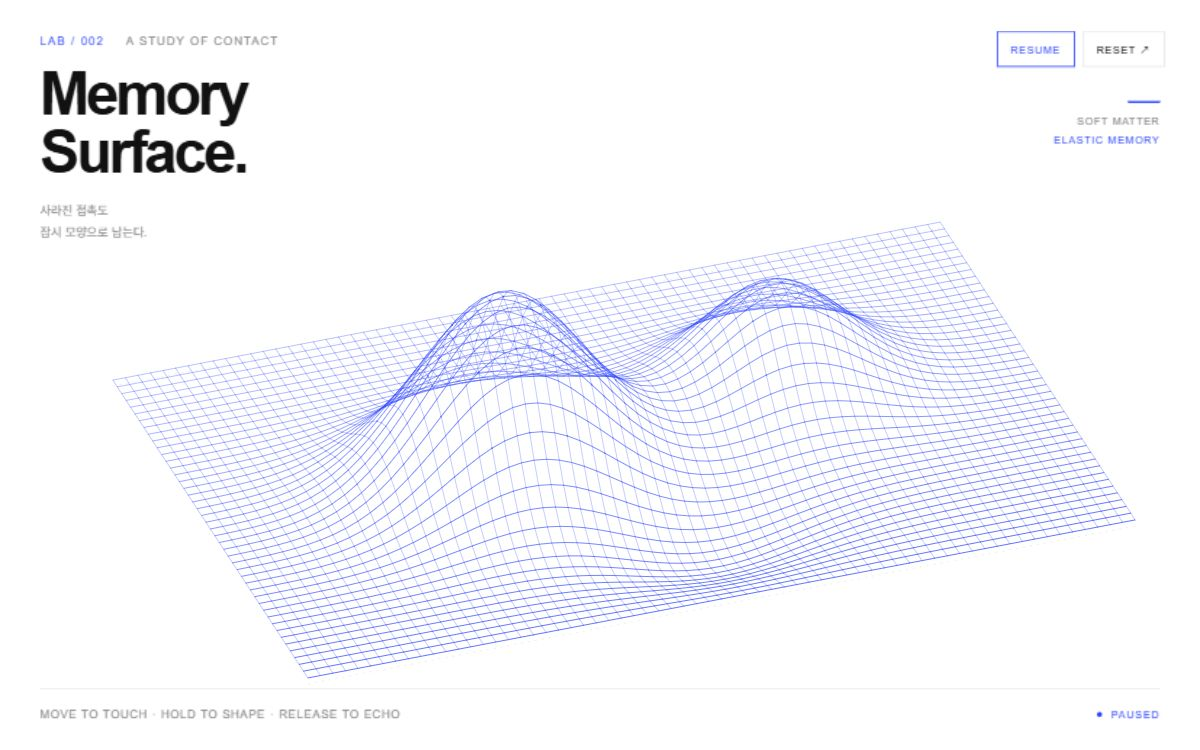
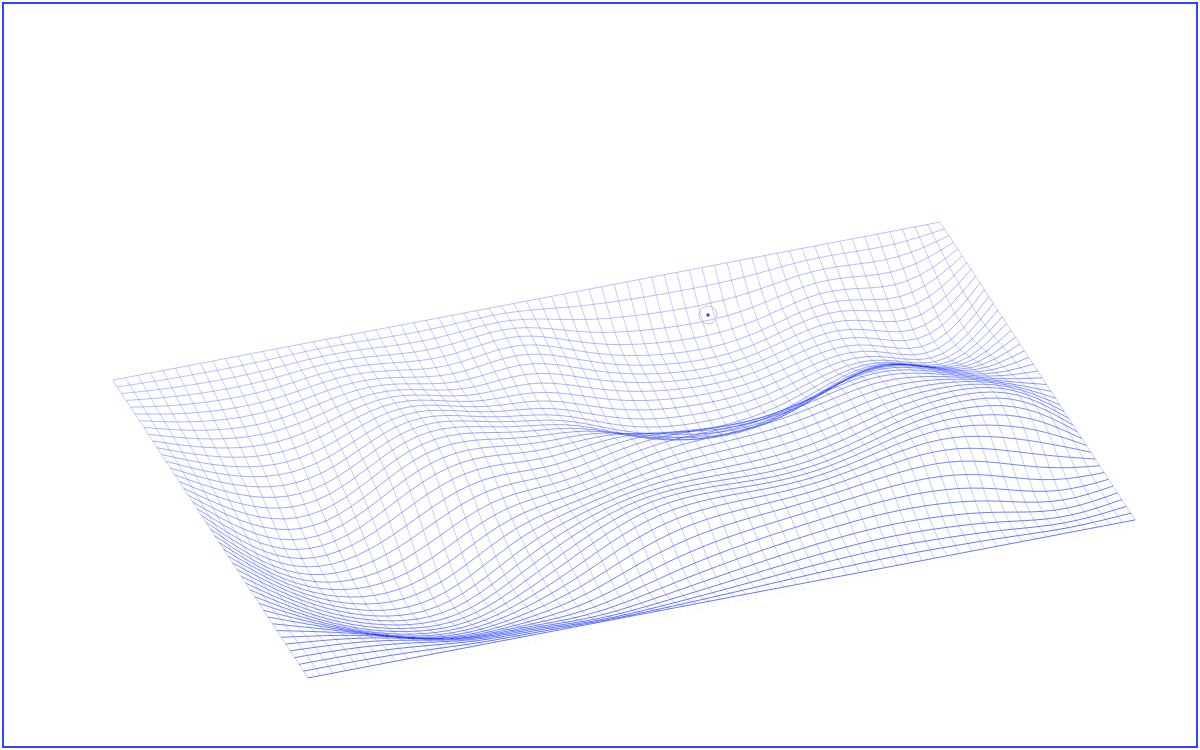
memory-suface 포스터 경량화

diff --git a/lab/sketches/memory-surface.html b/lab/sketches/memory-surface.html
@@ -12,7 +12,7 @@
   *{box-sizing:border-box}html,body{margin:0;width:100%;height:100%;overflow:hidden}button{font:inherit;color:inherit;cursor:pointer}button:focus-visible,canvas:focus-visible{outline:2px solid #2D45FF;outline-offset:-4px}
   canvas{display:block;width:100%;height:100%;touch-action:none;cursor:crosshair}
   .title{position:fixed;top:35px;left:40px;pointer-events:none;user-select:none}.eyebrow{margin:0 0 19px;font-size:11px;letter-spacing:1.8px;color:#8A8A8A}.eyebrow b{font-weight:400;color:#2D45FF;margin-right:17px}h1{margin:0;font-size:clamp(34px,5vw,70px);letter-spacing:-.065em;line-height:.96;font-weight:600}.title p:last-child{margin:20px 0 0;font-size:12px;letter-spacing:-.2px;color:#8A8A8A;line-height:1.7}
-  .controls{position:fixed;right:35px;top:31px;display:flex;gap:8px}.controls button{border:1px solid #e8e8e6;border-radius:0;background:#ffffffed;min-width:74px;min-height:36px;padding:9px 13px;font-size:10px;letter-spacing:1.2px}.controls button:hover{color:#2D45FF;border-color:#2D45FF}.controls button:disabled{color:#8A8A8A;cursor:default}.controls button[aria-pressed="true"]{border-color:#2D45FF;color:#2D45FF}
+  .controls{position:fixed;right:24px;top:20px;display:flex;gap:8px}.controls button{border:1px solid #e8e8e6;border-radius:0;background:#ffffffed;min-width:74px;min-height:36px;padding:9px 13px;font-size:10px;letter-spacing:1.2px}.controls button:hover{color:#2D45FF;border-color:#2D45FF}.controls button:disabled{color:#8A8A8A;cursor:default}.controls button[aria-pressed="true"]{border-color:#2D45FF;color:#2D45FF}
   .legend{position:fixed;right:40px;top:101px;text-align:right;pointer-events:none;font-size:10px;letter-spacing:1.2px;line-height:1.8;color:#8A8A8A}.legend span{display:block;color:#2D45FF}.legend:before{content:"";display:block;width:32px;height:2px;background:#2D45FF;margin:0 0 10px auto}
   .footer{position:fixed;left:40px;right:40px;bottom:26px;border-top:1px solid #e9e9e7;padding-top:16px;display:flex;justify-content:space-between;align-items:center;pointer-events:none;gap:15px}.hint{margin:0;font-size:11px;letter-spacing:1.2px;color:#8A8A8A;line-height:1.7}.state{font-size:10px;letter-spacing:1.4px;color:#2D45FF;white-space:nowrap}.state:before{content:"";display:inline-block;width:5px;height:5px;background:currentColor;border-radius:50%;margin-right:9px;vertical-align:1px}
   .fallback{position:fixed;left:20%;right:20%;top:46%;color:#8A8A8A;font-size:14px;line-height:1.8;text-align:center;background:white;padding:24px}.fallback[hidden]{display:none}.sr-only{position:absolute;width:1px;height:1px;overflow:hidden;clip:rect(0,0,0,0);white-space:nowrap}
@@ -22,9 +22,7 @@
 </head>
 <body>
 <canvas id="surface" tabindex="0" aria-label="기억하는 표면. 마우스를 움직이거나 손가락으로 눌러보세요. 스페이스를 누르고 놓아 파동을 만들고, R로 초기화할 수 있습니다."></canvas>
-<header class="title"><p class="eyebrow"><b>LAB / 002</b> A STUDY OF CONTACT</p><h1>Memory<br>Surface.</h1><p>사라진 접촉도<br>잠시 모양으로 남는다.</p></header>
-<div class="controls"><button id="pause" type="button" aria-label="움직임 일시정지" aria-pressed="false">PAUSE</button><button id="reset" type="button" aria-label="표면 초기화">RESET ↗</button></div>
-<div class="legend" aria-hidden="true">SOFT MATTER<span>ELASTIC MEMORY</span></div>
+<div class="controls"><button id="pause" type="button" aria-label="움직임 일시정지" aria-pressed="false">PAUSE</button></div>
 <footer class="footer"><p class="hint">MOVE TO TOUCH · HOLD TO SHAPE · RELEASE TO ECHO</p><span class="state" id="status" aria-hidden="true">REMEMBERING</span></footer>
 <p class="fallback" id="fallback" hidden>이 브라우저에서는 Canvas를 사용할 수 없습니다.<br>최신 브라우저에서 다시 열어주세요.</p>
 <p class="sr-only" id="announcement" role="status"></p>
@@ -168,7 +166,7 @@
   }
   pauseButton.addEventListener('click',()=>{paused=!paused;release(false);hovering=false;if(paused)stop();else start();syncControls();});
   function reset(){release(false);hovering=false;seed();draw();syncControls();document.getElementById('announcement').textContent='표면을 처음의 모양으로 되돌렸습니다.';}
-  document.getElementById('reset').addEventListener('click',reset);
+  const resetButton=document.getElementById('reset');if(resetButton)resetButton.addEventListener('click',reset);
   reduced.addEventListener('change',()=>{release(false);hovering=false;if(reduced.matches){stop();seed();}else start();syncControls();});
   document.addEventListener('visibilitychange',()=>{release(false);hovering=false;if(document.hidden){stop();canvas.dataset.mode='hidden';}else{start();syncControls();}});
   window.addEventListener('blur',()=>{release(false);hovering=false;});

diff --git a/lab/sketches/making/memory-surface.md b/lab/sketches/making/memory-surface.md
@@ -50,3 +50,41 @@
 ---
 
 *시작 프롬프트는 실제 입력을 그대로 옮겼습니다. 나머지는 실제 구현과 검증을 요약했으며, 사용자 판단을 지어내지 않았습니다.*
+
+
+---
+
+## Claude가 이어서 한 것 (2026.09)
+
+원저자는 GPT-6 이고, 인터랙션 로직은 한 줄도 바뀌지 않았습니다.
+Claude Opus 5 가 저장소 규격에 맞추는 작업만 했습니다.
+
+**① 임베드 규격 정리**
+
+이 저장소의 스케치는 공용 뷰어(`view.html`) 안의 iframe 으로 들어갑니다.
+그런데 스케치가 독립 페이지로 만들어져 있어서, 뷰어가 띄운 제목 아래에서
+같은 제목이 한 번 더 크게 나오고 있었습니다. 아래를 걷어냈습니다.
+
+- `header.title` — "LAB / 002 · A STUDY OF CONTACT · Memory Surface." 블록
+- `div.legend` — "SOFT MATTER / ELASTIC MEMORY" 장식 라벨
+- `RESET` 버튼 — 뷰어의 `RESTART` 와 역할이 같음 (`R` 키 단축키는 그대로 동작)
+
+`PAUSE` 버튼은 뷰어에 없는 기능이라 남겼고, 조작 안내 문구도 규약이 요구하는
+항목이라 유지했습니다. 물리 계산·렌더링·입력 처리 코드는 그대로입니다.
+
+**② 프레임 속도 측정 — 위에서 GPT가 확정하지 못했던 항목**
+
+GPT는 자기 실행 환경의 측정값(약 1fps)을 일반 노트북 성능으로 간주하지 않고
+"재확인 필요"로 남겨뒀습니다. 그 판단이 맞았습니다. 별도의 브라우저에서 다시 재니
+**1280 × 800 기준 61 ~ 62fps, 콘솔 에러 0개** 였습니다. `PAUSE` 토글과 `R` 키
+초기화도 정리 후 정상 동작을 확인했습니다.
+
+**③ 포스터 재생성**
+
+기존 포스터는 UI 가 포함된 페이지 스크린샷이었고 카드 595KB / 커버 799KB 였습니다.
+UI 를 뺀 작품 컷으로 다시 찍고 압축해 **97KB / 123KB** 로 줄였습니다.
+LAB 목록 첫 로딩이 1.4MB 에서 0.3MB 가 됐습니다.
+
+> 이 작업이 필요했던 것은 GPT의 실수 때문이 아니라, 당시 `AGENTS.md` 에
+> "스케치는 독립 페이지가 아니라 임베드되는 부품" 이라는 조항이 없었기 때문입니다.
+> 규약에 그 조항을 추가했으므로 다음 스케치부터는 이 정리가 필요 없습니다.

diff --git a/lab/AGENTS.md b/lab/AGENTS.md
@@ -48,12 +48,44 @@ index.html              메인 페이지
 `slug` 는 영문 소문자·숫자·하이픈만. 위 파일들의 이름이 전부 여기서 파생되므로 반드시 통일하세요.
 
 포스터 이미지는 스케치를 실제로 실행한 뒤 **가장 잘 나온 순간을 캡처**해서 만듭니다.
+**캡처 전에 조작 안내·버튼 등 UI 를 숨기고 작품만 남기세요.** 페이지 스크린샷이 아니라 작품 컷이어야 합니다.
+**한 장당 150KB 를 넘기지 마세요.** 넘으면 색을 64색으로 줄여 저장하면 대개 100KB 아래로 떨어집니다.
 브라우저를 띄울 수 있다면 직접 캡처하고, 불가능하면 사람에게 요청하세요.
 이미지가 없으면 카드가 회색으로 비어 보입니다 (깨지지는 않습니다).
 
 ---
 
 ## 2. 스케치 파일 요구사항
+
+### 구조 — 스케치는 "페이지"가 아니라 "부품"입니다
+
+**가장 자주 어긋나는 지점이라 맨 앞에 둡니다.**
+
+스케치는 공용 뷰어(`lab/view.html`) 안의 **iframe 으로 들어갑니다.**
+뷰어가 이미 아래를 화면에 띄웁니다.
+
+- 제목 (`Memory Surface`)
+- 메타 (`CANVAS 2D · 2026 · AI-MADE · GPT-6`)
+- 한 줄 설명
+- `RESTART` / `FULLSCREEN` / `OPEN` 버튼
+
+그러니 스케치 안에는 **같은 것을 또 넣지 마세요.** 넣으면 제목이 두 번 나옵니다.
+
+**넣지 말 것**
+
+- 작품 제목, 부제, 일련번호 (`LAB / 002` 같은 것)
+- 프로젝트 설명 문단
+- `RESET` / `RELOAD` 버튼 — 뷰어의 `RESTART` 와 겹칩니다
+- 장식용 라벨·헤더·푸터 크롬
+
+**넣어도 되는 것**
+
+- 작품 자체 (캔버스)
+- **조작 안내 한 줄** — 화면 구석에 작게. 이건 오히려 필수입니다
+- 뷰어에 없는 고유 컨트롤 (예: `PAUSE`, 파라미터 슬라이더)
+- 라이브러리 로드 실패 / `<noscript>` 안내
+
+한 문장으로: **화면을 열었을 때 "작품"만 보여야 하고, "작품 소개 페이지"가 보이면 안 됩니다.**
 
 ### 구조
 
